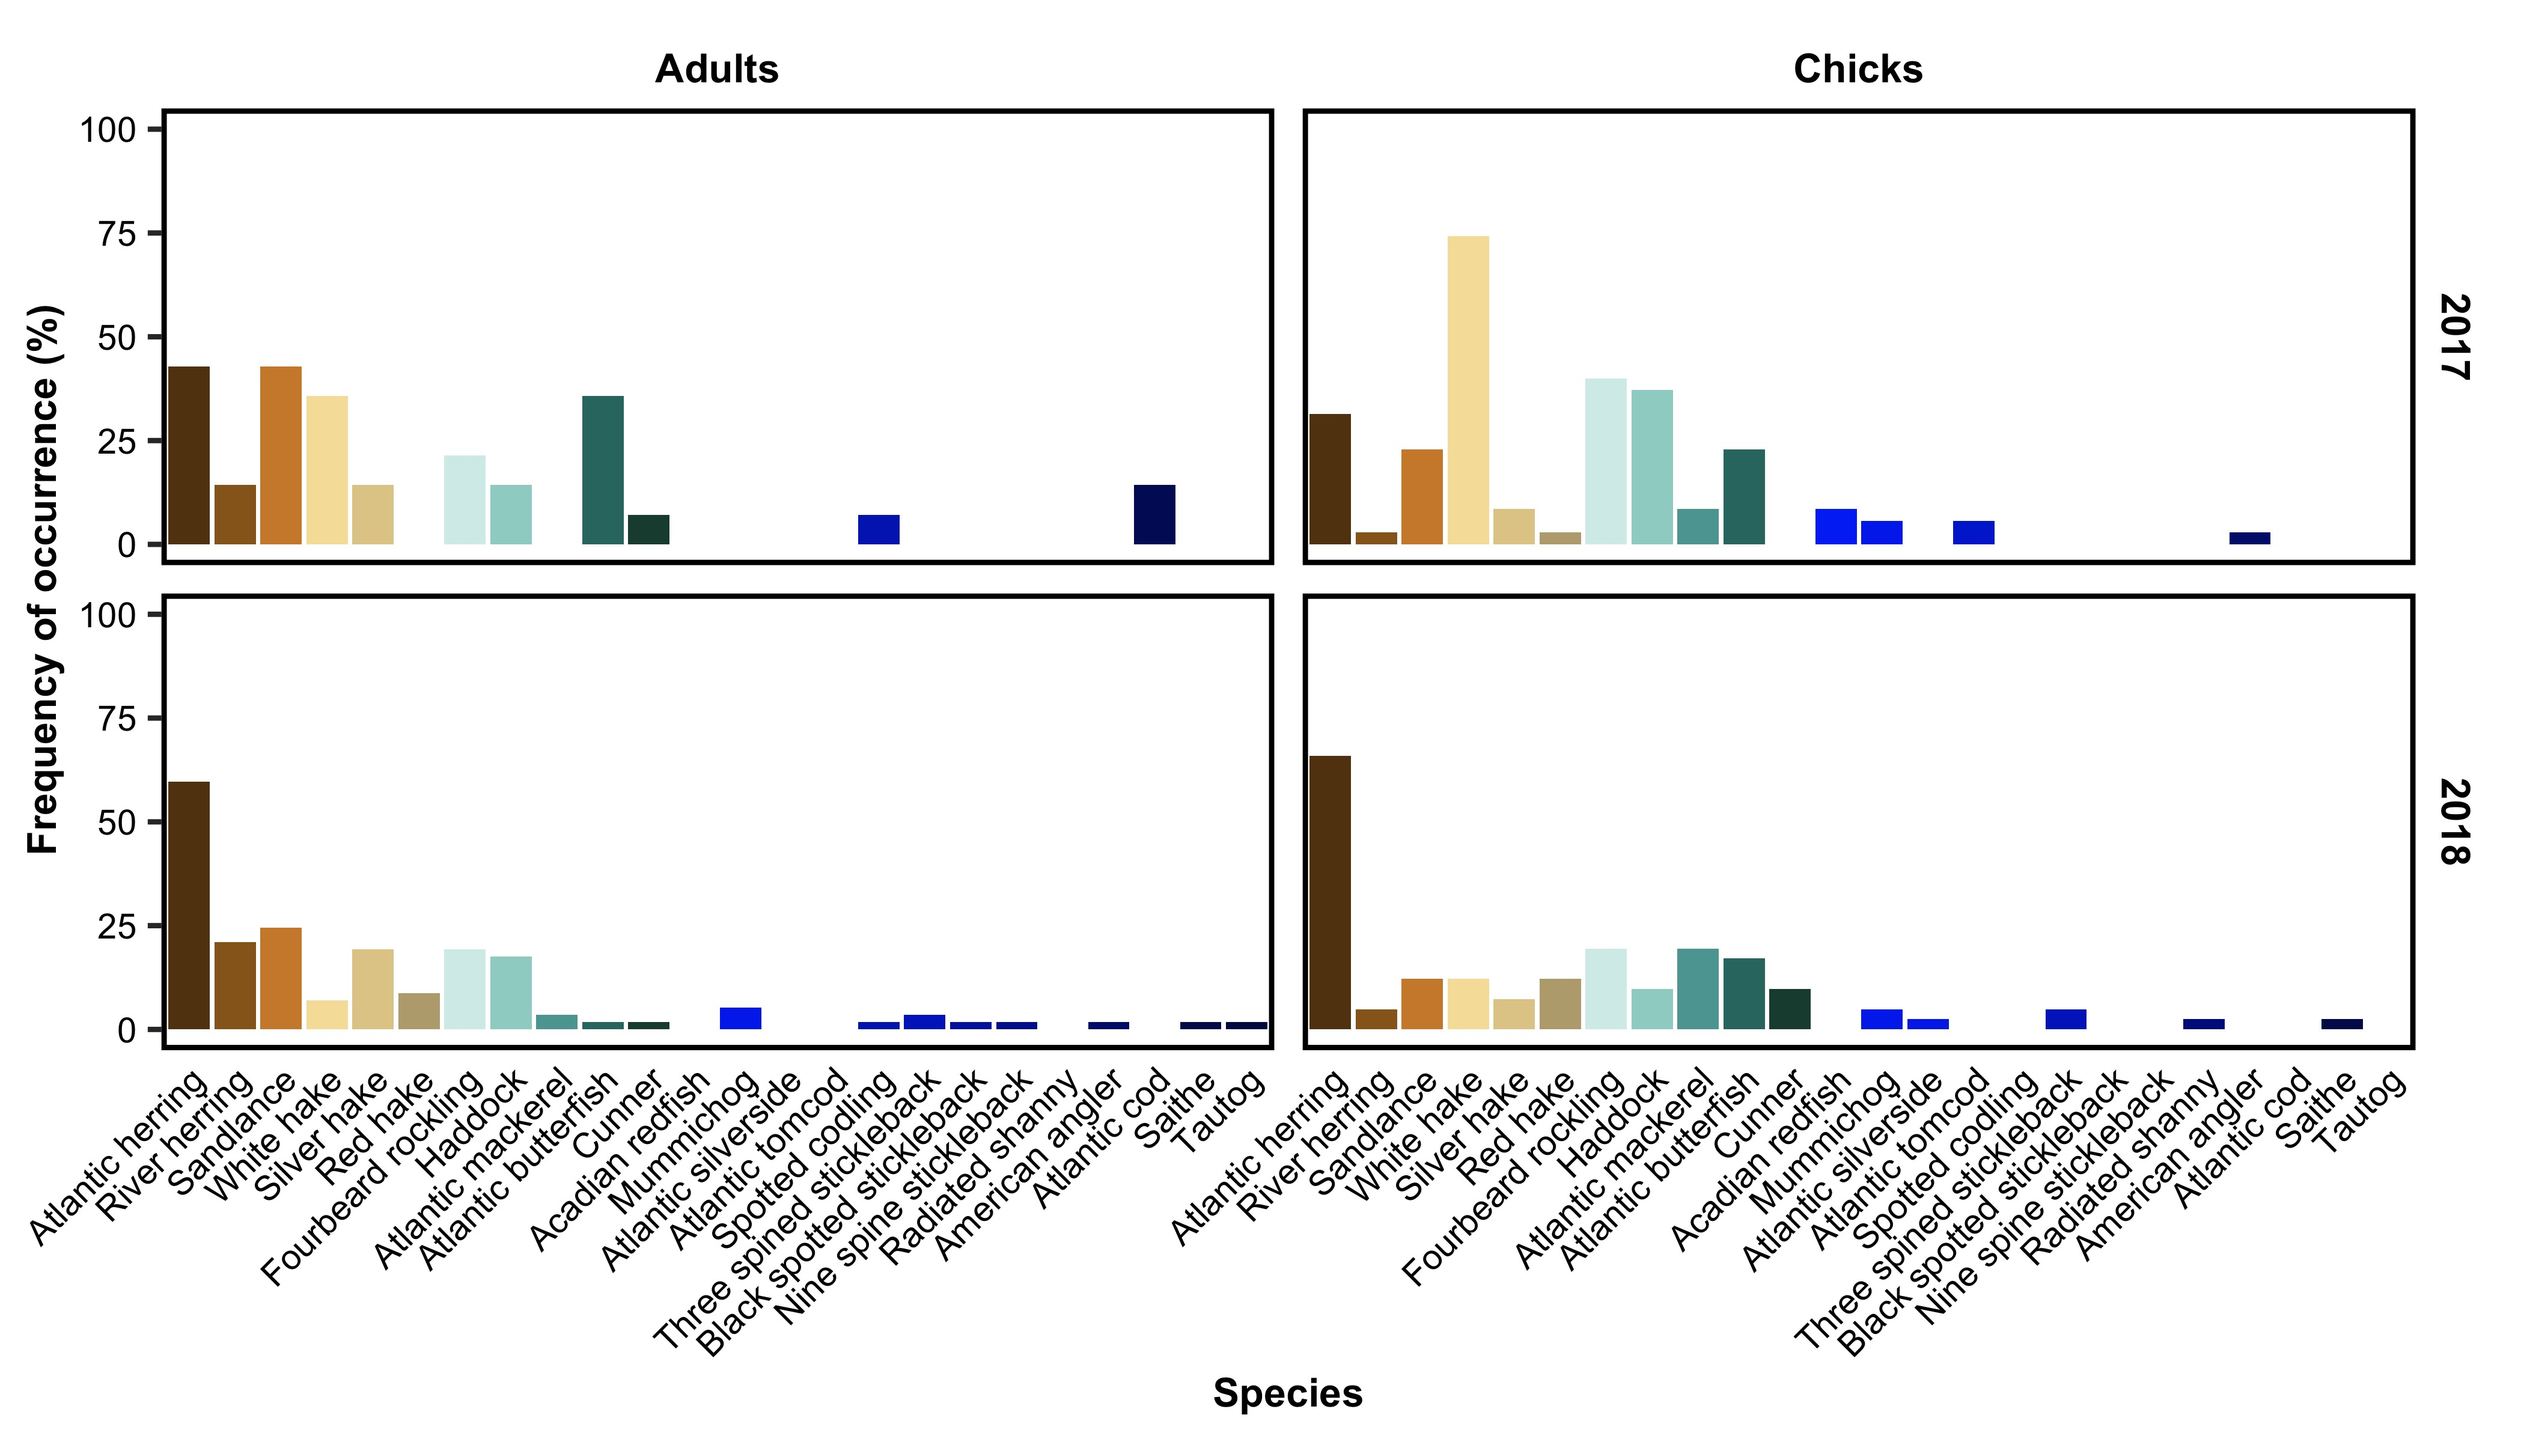
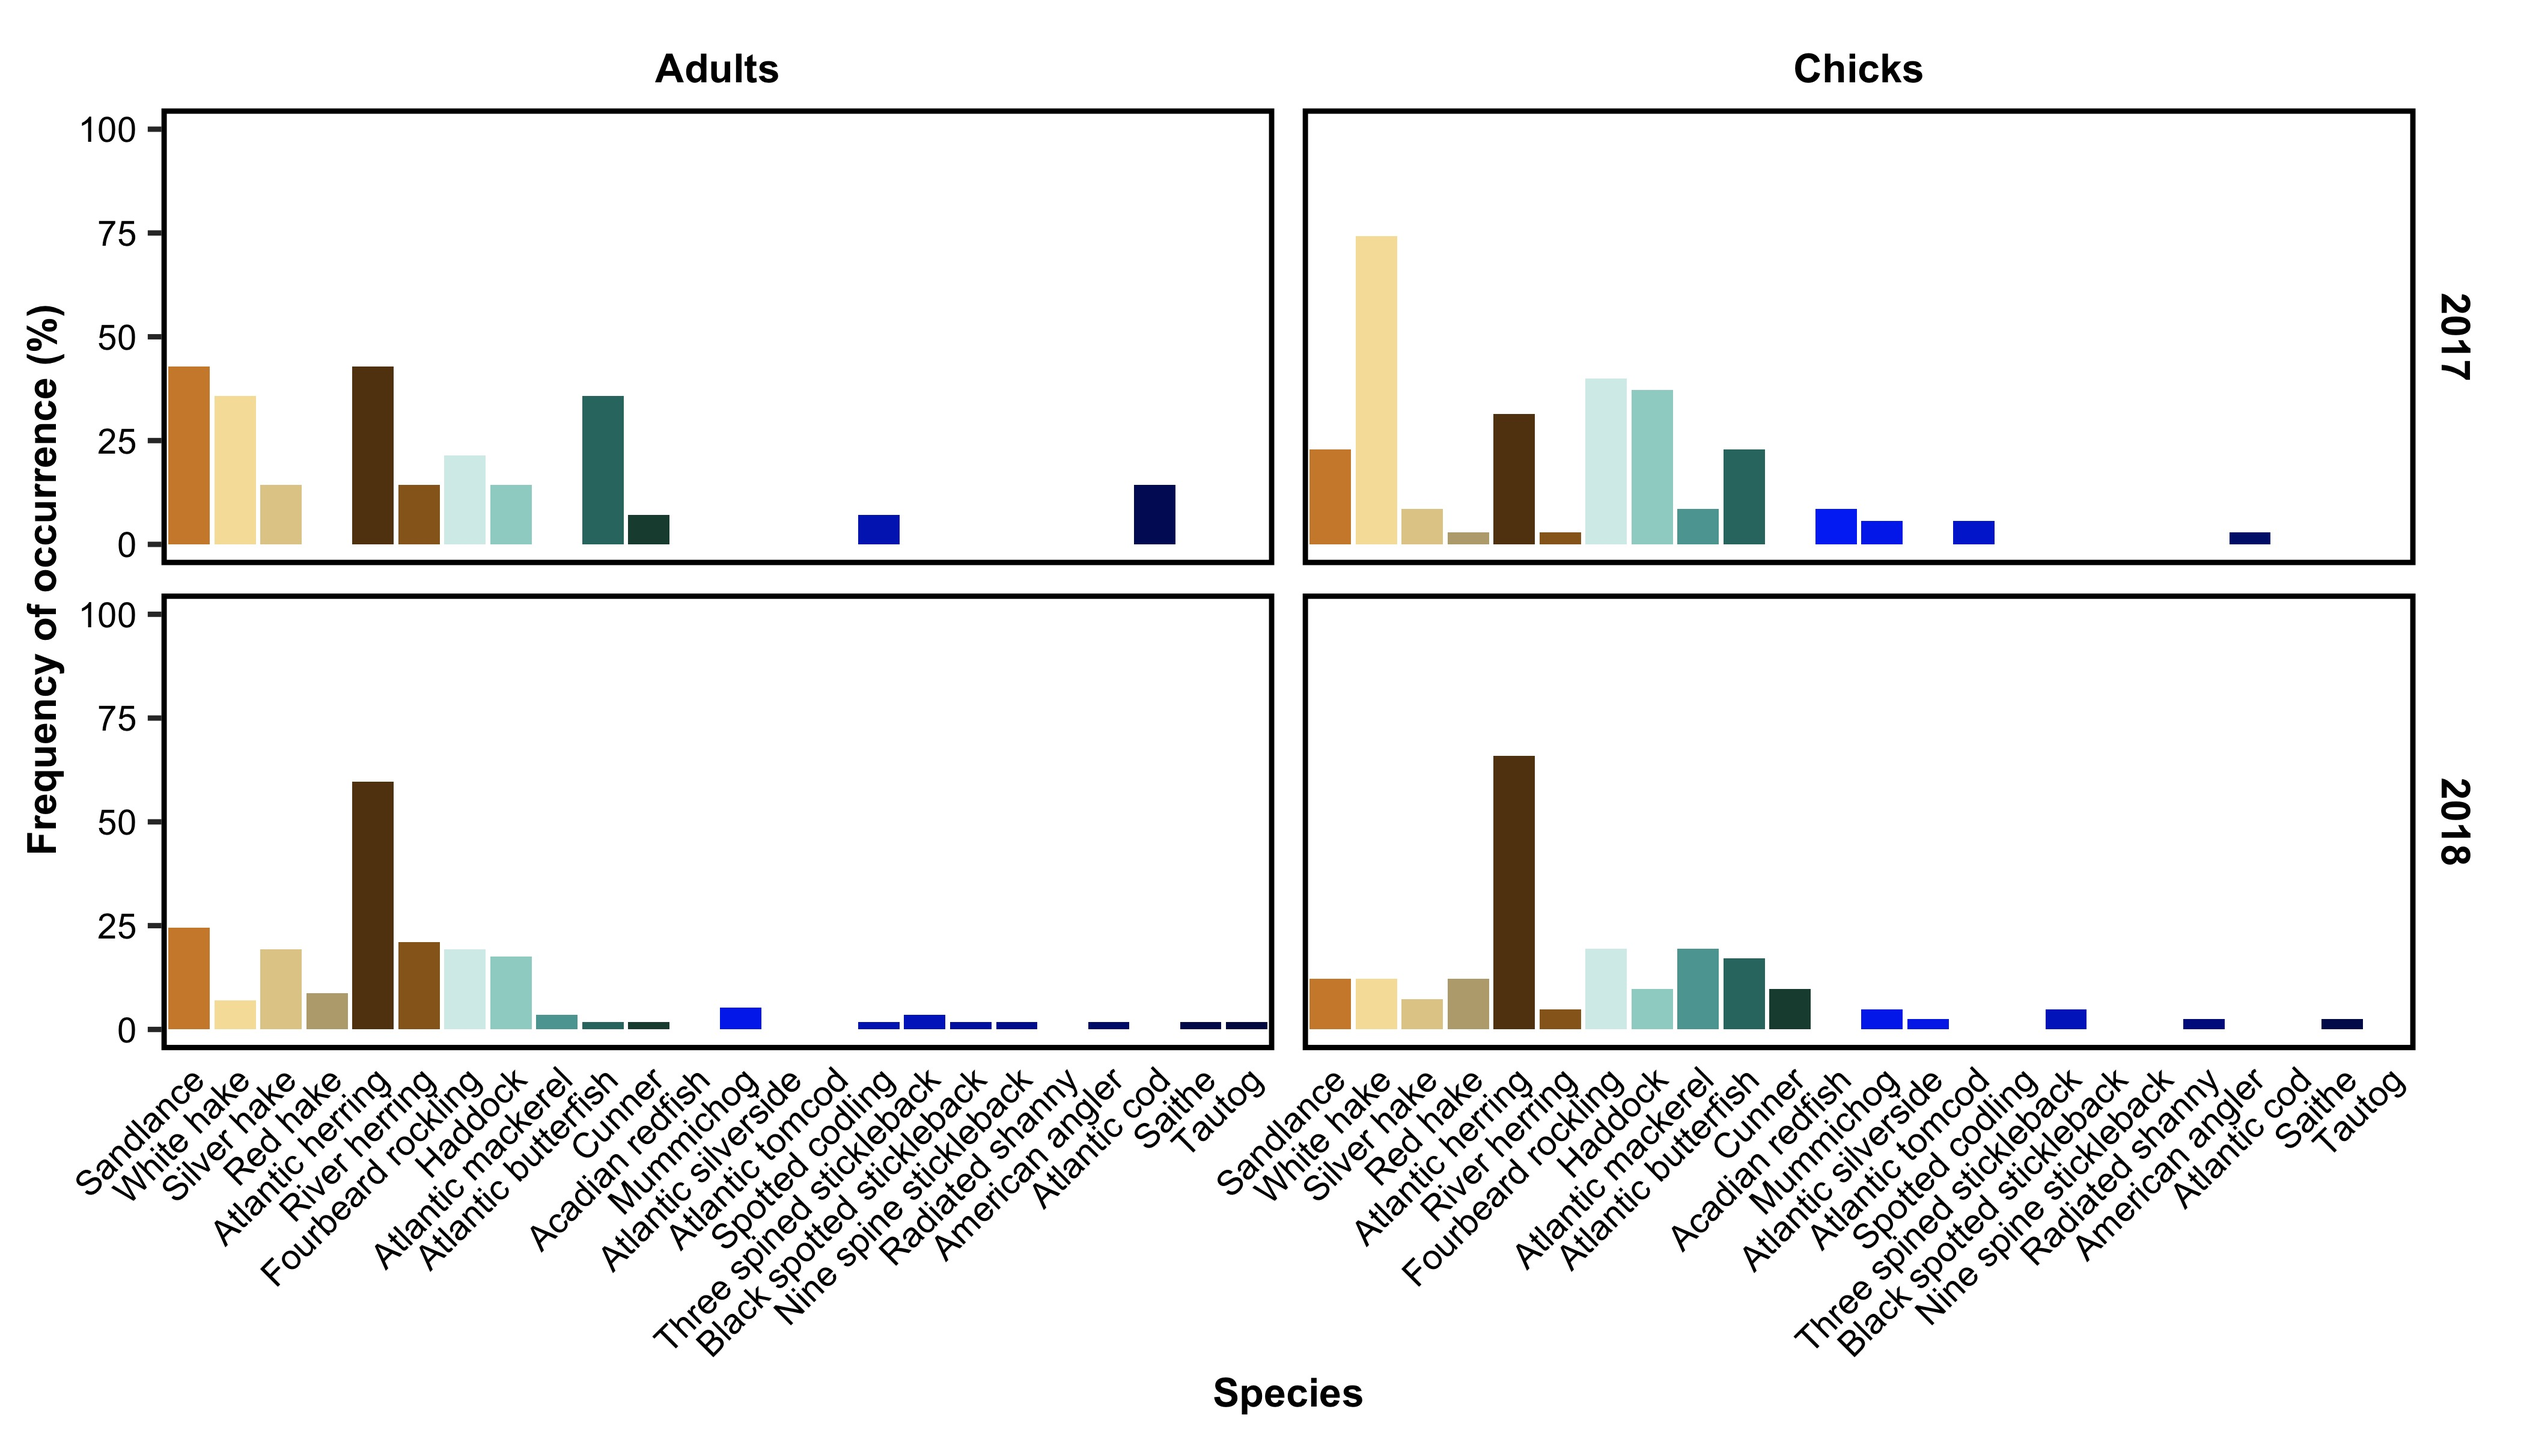
knitted figures

diff --git a/Figures/FOO.md b/Figures/FOO.md
@@ -365,12 +365,14 @@ do this by grouping by species and then filtering out species where FOO
 = 0.
 
 ``` r
+labels <- c(COTE = "Common Terns", ROST = "Roseate Terns")
+
 p <- All_FOO %>% 
   group_by(Species) %>% 
   filter(FOO > 0) %>% 
   ggplot() +
   geom_bar(aes(x = Species, y = FOO, fill = Species), stat = "identity") +
-  facet_grid(rows = vars(Year), cols = vars(BirdSpecies)) +
+  facet_grid(rows = vars(Year), cols = vars(BirdSpecies), labeller=labeller(BirdSpecies = labels)) +
   theme_classic() +
   theme(axis.text.x = element_text(angle = 45,  hjust=1, colour = "black", margin = margin(t = 0)),
         axis.text.y = element_text(colour = "black"),
@@ -392,18 +394,124 @@ p
 ![](FOO_files/figure-gfm/unnamed-chunk-10-1.png)<!-- -->
 
 ``` r
-ggsave(filename = "FOO_COTE_ROST_2017_2018_4panels.jpg",
-  plot = p,
-  dpi = 600,
-  device = "jpeg",
-  width = 7,
-  height = 4
-)
+# ggsave(filename = "FOO_COTE_ROST_2017_2018_4panels.jpg",
+#   plot = p,
+#   dpi = 600,
+#   device = "jpeg",
+#   width = 7,
+#   height = 4
+# )
+```
+
+## Editing plot for Roseate tern meeting
+
+I want to put the Roseates on the left, with sandlance first as the main
+prey.
+
+``` r
+# Define x axis order
+Species_ordered <-  c("Sandlance",
+                      "White hake",
+                      "Silver hake",
+                      "Red hake",
+                      "Atlantic herring",
+                      "River herring",
+                      "Fourbeard rockling",
+                      "Haddock",
+                      "Atlantic mackerel",
+                      "Atlantic butterfish",
+                      "Cunner",
+                      "Acadian redfish",
+                      "Mummichog",
+                      "Atlantic silverside",
+                      "Atlantic tomcod",
+                      "Spotted codling",
+                      "Three spined stickleback",
+                      "Black spotted stickleback",
+                      "Nine spine stickleback",
+                      "Radiated shanny",
+                      "American angler",
+                      "Atlantic cod",
+                      "Saithe",
+                      "Tautog",
+                      "Darter sp",
+                      "Red lionfish")
+
+Species_with_colours <- c("Sandlance" = rgb(207, 138, 54, max = 255),
+                      "White hake" = rgb(247, 224, 167, max = 255),
+                      "Silver hake" = rgb(225, 204, 150, max = 255),
+                      "Red hake" = rgb(187, 169, 126, max = 255),
+                      "Atlantic herring" = rgb(98, 64, 18, max = 255),
+                      "River herring" = rgb(150, 102, 34, max = 255),
+                      "Fourbeard rockling" = rgb(214,   237, 234, max = 255),
+                      "Haddock" = rgb(159, 211, 204, max = 255),
+                      "Atlantic mackerel" = rgb(92, 164, 160, max = 255),
+                      "Atlantic butterfish" = rgb(50,   118, 113, max = 255),
+                      "Cunner" = rgb(30, 75, 63, max = 255),
+                      "Acadian redfish" = rgb(5, 60, 245, max = 255),
+                      "Mummichog" = rgb(5, 57, 237, max = 255),
+                      "Atlantic silverside" = rgb(6, 56, 234, max = 255),
+                      "Atlantic tomcod" = rgb(4, 50, 211, max = 255),
+                      "Spotted codling" = rgb(3, 44, 190, max = 255),
+                      "Three spined stickleback" = rgb(3, 46, 199, max = 255),
+                      "Black spotted stickleback" = rgb(3, 39, 175, max = 255),
+                      "Nine spine stickleback" = rgb(1, 34, 157, max = 255),
+                      "Radiated shanny" = rgb(2, 29, 141, max = 255),
+                      "American angler" = rgb(1, 26, 122, max = 255),
+                      "Atlantic cod" = rgb(2, 21, 100, max = 255),
+                      "Saithe" = rgb(2, 19, 90, max = 255),
+                      "Tautog" = rgb(1, 15, 80, max = 255),
+                      "Darter sp" = rgb(0, 8, 60, max = 255),
+                      "Red lionfish" = rgb(0, 0,0, max = 255))
+
+# Set order of fish species
+All_FOO$Species <- scrub_periods(All_FOO)
+
+# Set factor order of ROST and COTE for plotting
+All_FOO$BirdSpecies_f = factor(All_FOO$BirdSpecies, levels=c("ROST", "COTE"))
+
+
+labels <- c(ROST = "Roseate Terns", COTE = "Common Terns")
+
+p <- All_FOO %>% 
+  group_by(Species) %>% 
+  filter(FOO > 0) %>% 
+  ggplot() +
+  geom_bar(aes(x = Species, y = FOO, fill = Species), stat = "identity") +
+  facet_grid(rows = vars(Year), cols = vars(BirdSpecies_f), labeller=labeller(BirdSpecies_f = labels)) +
+  theme_classic() +
+  theme(axis.text.x = element_text(angle = 45,  hjust=1, colour = "black", margin = margin(t = 0)),
+        axis.text.y = element_text(colour = "black"),
+        axis.text=element_text(size=7),
+        axis.title=element_text(size=8, face = "bold"),
+        axis.ticks.x = element_blank(),
+        panel.border=element_rect(colour="black",size=1, fill = NA),
+        panel.spacing = unit(2, "mm"),
+        strip.background = element_blank(),
+        strip.text = element_text(colour = "black", size=8, face = "bold"),
+        axis.line = element_blank()) +
+  labs(y = "Frequency of occurrence (%)") +
+  scale_fill_manual(values = Species_with_colours) +
+  theme(legend.position = "none")
+
+p
+```
+
+![](FOO_files/figure-gfm/unnamed-chunk-12-1.png)<!-- -->
+
+``` r
+# ggsave(filename = "FOO_ROST_COTE_2017_2018_4panels.jpg",
+#   plot = p,
+#   dpi = 600,
+#   device = "jpeg",
+#   width = 7,
+#   height = 4
+# )
 ```
 
 ## Plotting Common Tern adults and chicks
 
-I need to calculate the FOO of the adult diets. First, get the data fpr
+I need to calculate the FOO of the adult diets. First, get the data for
 2017 adults and plot:
 
 ``` r
@@ -427,7 +535,7 @@ FOO %>%
   plot_FOO()
 ```
 
-![](FOO_files/figure-gfm/unnamed-chunk-12-1.png)<!-- -->
+![](FOO_files/figure-gfm/unnamed-chunk-14-1.png)<!-- -->
 
 Now do the same for 2018:
 
@@ -452,7 +560,7 @@ FOO %>%
   plot_FOO()
 ```
 
-![](FOO_files/figure-gfm/unnamed-chunk-13-1.png)<!-- -->
+![](FOO_files/figure-gfm/unnamed-chunk-15-1.png)<!-- -->
 
 Store the FOO in objects, so that I can then combine with the chick data
 
@@ -603,12 +711,15 @@ kable(All_FOO)
 Get rid of species that have zero FOO in all groups and plot
 
 ``` r
+# Make labels for the top row
+labels <- c(adult = "Adults", chick = "Chicks")
+
 p <- All_FOO %>% 
   group_by(Species) %>% 
   filter(FOO > 0) %>% 
   ggplot() +
   geom_bar(aes(x = Species, y = FOO, fill = Species), stat = "identity") +
-  facet_grid(rows = vars(Year), cols = vars(Age)) +
+  facet_grid(rows = vars(Year), cols = vars(Age), labeller=labeller(Age = labels)) +
   theme_classic() +
   theme(axis.text.x = element_text(angle = 45,  hjust=1, colour = "black", margin = margin(t = 0)),
         axis.text.y = element_text(colour = "black"),
@@ -621,13 +732,21 @@ p <- All_FOO %>%
         strip.text = element_text(colour = "black", size=8, face = "bold"),
         axis.line = element_blank()) +
   labs(y = "Frequency of occurrence (%)") +
-  #scale_fill_manual(values = Species_colours,
-  #                  breaks = Species_ordered,
-  #                  labels = Species_ordered) +
+  ylim(0, 100) +
   scale_fill_manual(values = Species_with_colours) +
   theme(legend.position = "none")
 
 p
 ```
 
-![](FOO_files/figure-gfm/unnamed-chunk-16-1.png)<!-- -->
+![](FOO_files/figure-gfm/unnamed-chunk-18-1.png)<!-- -->
+
+``` r
+ggsave(filename = "FOO_COTE_adultsVchicks_2017_2018_4panels.jpg",
+  plot = p,
+  dpi = 600,
+  device = "jpeg",
+  width = 7,
+  height = 4
+)
+```
